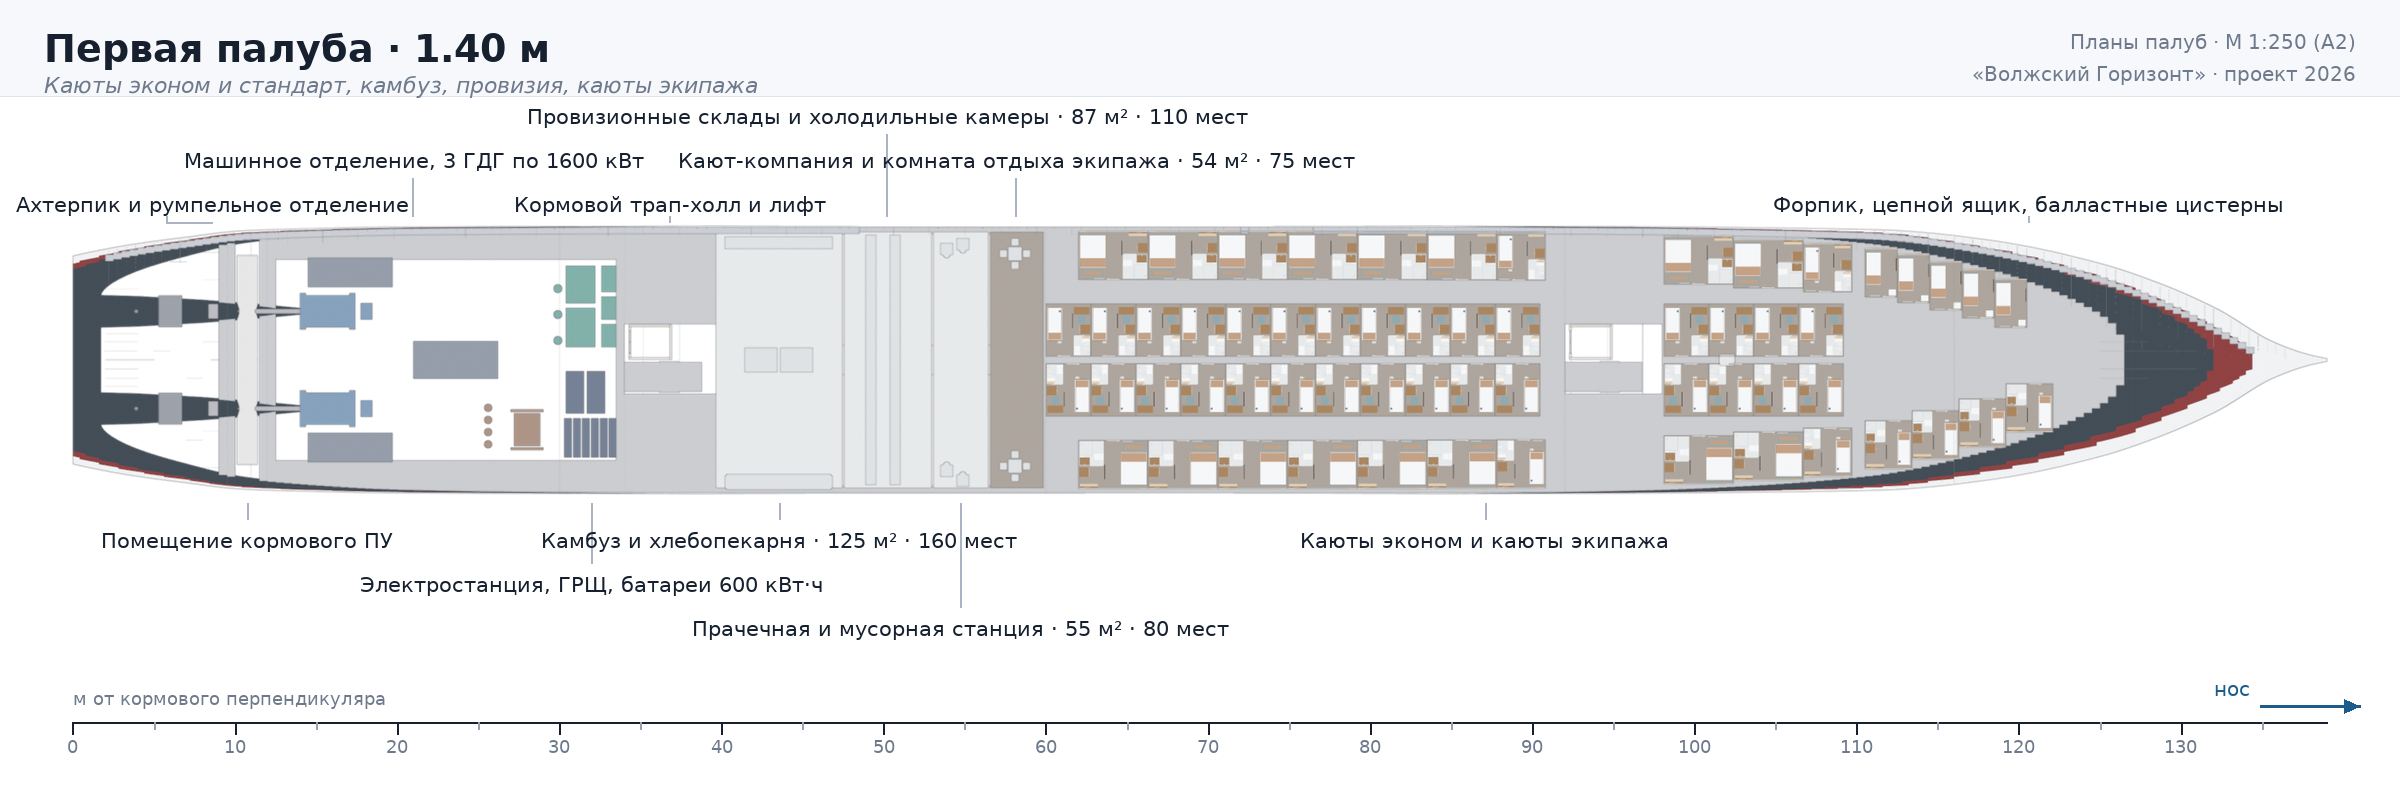
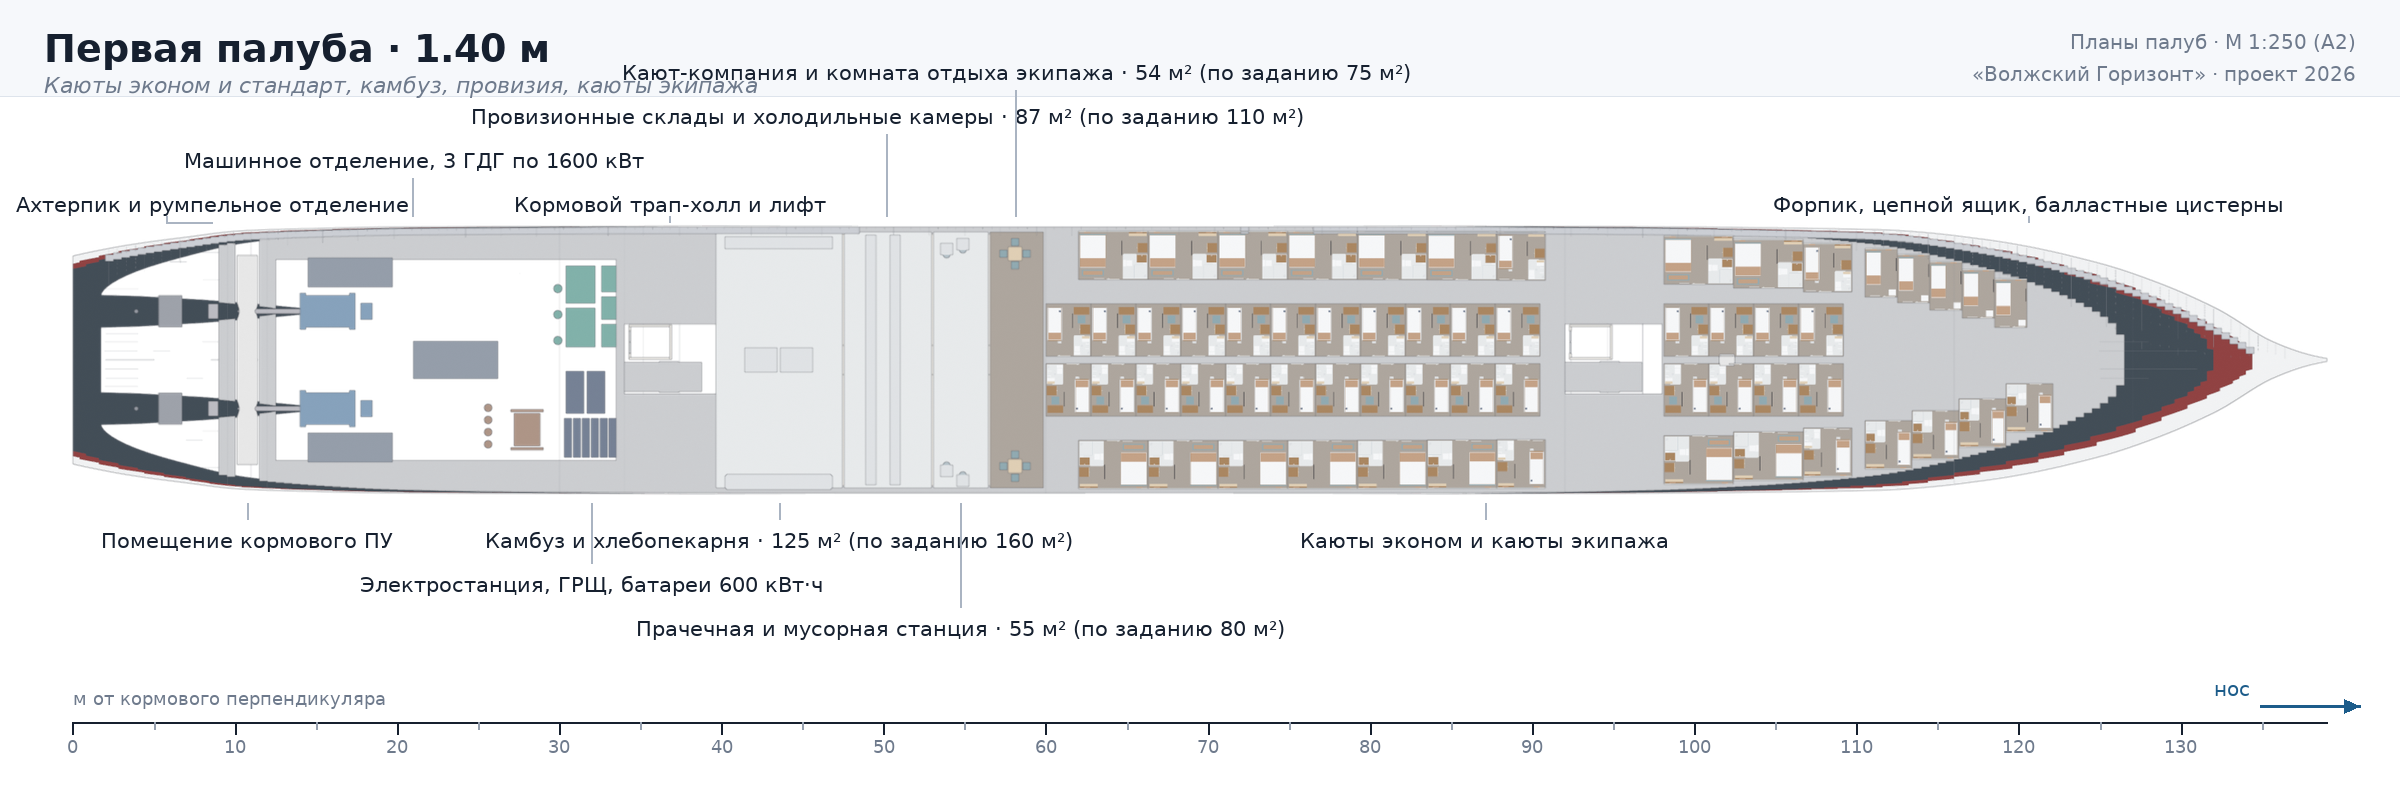
Планы печатают посадку из модели
blender_аудит.seats() пишет счёт мест в src/lib/gorizont_seats.json, планы
палуб читают его и печатают рядом с площадью. Диваны и кресла считаются по
подушкам, стулья по сиденьям, барные табуреты по своим.

Зона «Бистро на 60 мест» переименована в «Бистро»: с подписью «· 41 мест»
рядом название с числом читалось как опечатка.

diff --git a/scripts/планы_палуб.py b/scripts/планы_палуб.py
@@ -53,6 +53,30 @@ def px(x):
     return (x - X0) * SCALE
 
 
+_SEATS = None
+
+
+def _seats(x0, x1, deck):
+    """Посадка в зоне по счёту модели: её пишет blender_аудит.seats()."""
+    global _SEATS
+    if _SEATS is None:
+        try:
+            with io.open(os.path.join(ROOT, "src", "lib",
+                                      "gorizont_seats.json"),
+                         encoding="utf-8") as f:
+                _SEATS = json.load(f)
+        except Exception:
+            _SEATS = {}
+    if not _SEATS:
+        return 0
+    from lib import gorizont_rooms as RM
+    total = 0
+    for obj, (d, a, b, _fn, _p) in RM.ROOMS.items():
+        if d == deck and a >= x0 - 0.6 and b <= x1 + 0.6:
+            total += _SEATS.get(obj, 0)
+    return total
+
+
 def build(name, title, sub, key):
     raw = Image.open(os.path.join(RAW, name + ".png")).convert("RGBA")
     raw = raw.resize((W, int(RAWH * W / RAWW)), Image.LANCZOS)

diff --git a/src/lib/gorizont_ga.py b/src/lib/gorizont_ga.py
@@ -55,7 +55,7 @@ DECKS = {
    ( 40.2,  44.2, "service", "Раздаточная и буфет", 40, 54.4),
    ( 44.2,  63.2, "public",  "Театр-лаунж, вечером — ночной клуб", 280, 258.4),
    ( 63.2,  66.2, "service", "Сцена, артистическая, аппаратная", 35, 40.8),
-   ( 66.2,  74.0, "public",  "Бистро на 60 мест", 60, 106.1),
+   ( 66.2,  74.0, "public",  "Бистро", 60, 106.1),
    ( 74.0,  91.5, "public",  "Лобби-атриум, ресепшен, медпункт, изолятор, бутик", 151, 238.0),
    ( 91.5,  98.0, "public",  "Носовой трап-холл и лифт", None, 88.4),
    ( 98.1, 123.9, "cabins",  "Каюты стандарт и эконом", None, None),

diff --git a/scripts/blender_аудит.py b/scripts/blender_аудит.py
@@ -556,7 +556,9 @@ def seats(verbose=True, save=True):
         if 0.44 <= dx <= 0.62 and 0.44 <= dy <= 0.62 and 0.20 <= h <= 1.20:
             cnt[name] = cnt.get(name, 0) + 1
         elif 0.30 <= dx <= 0.42 and 0.30 <= dy <= 0.42 and 0.62 <= h <= 0.95:
-            cnt[name] = cnt.get(name, 0) + 1
+            cnt[name] = cnt.get(name, 0) + 1     # барный табурет
+        elif 0.50 <= max(dx, dy) <= 1.15 and 0.40 <= min(dx, dy) <= 0.80                 and 0.30 <= h <= 0.52:
+            cnt[name] = cnt.get(name, 0) + 1     # подушка дивана или кресла
     if save:
         import json
         with open(os.path.join(ROOT_SRC, "lib", "gorizont_seats.json"),
